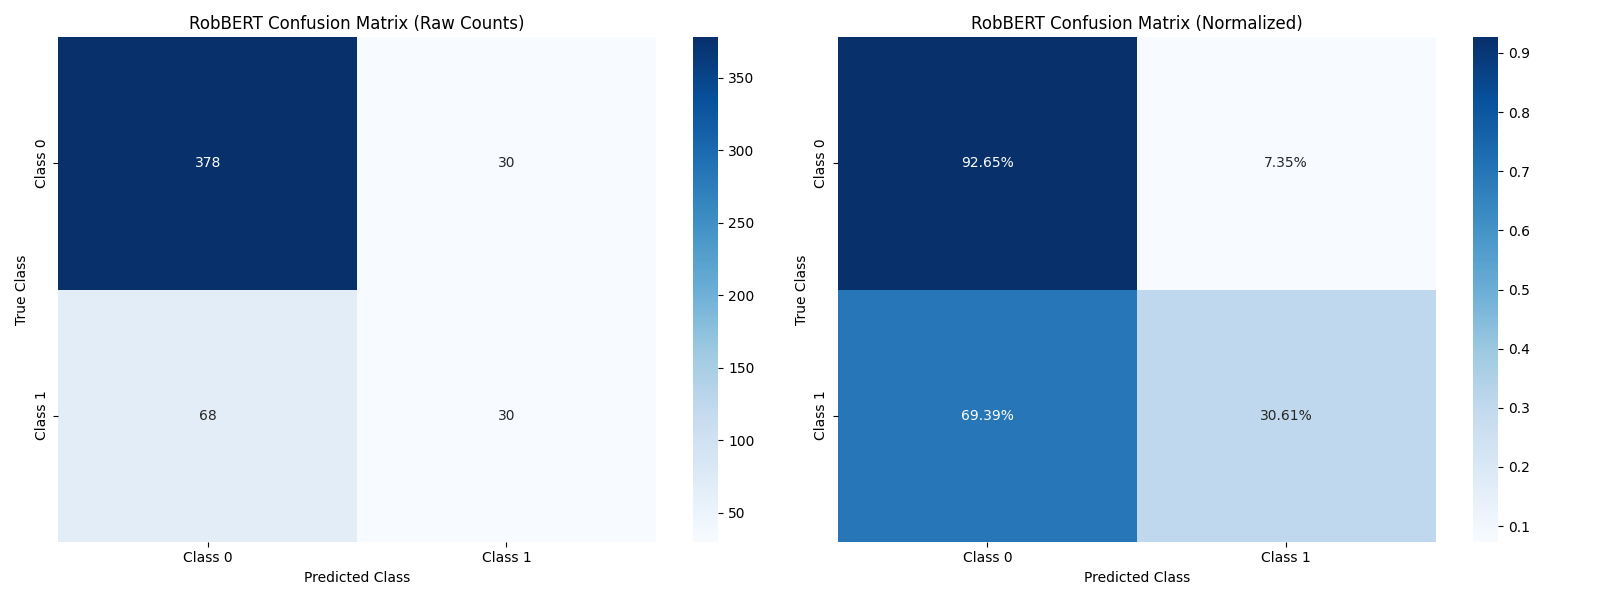
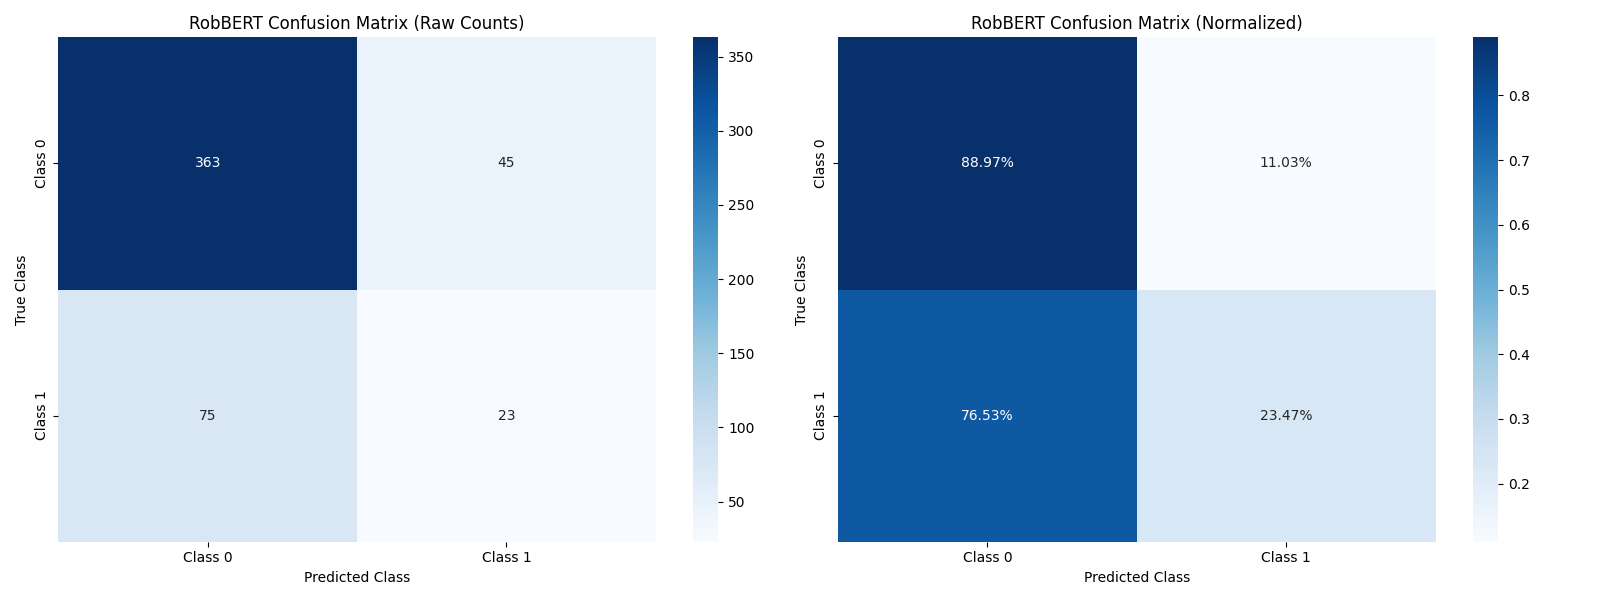
Retrained models and made path changes to src files

diff --git a/Application.py b/Application.py
@@ -459,19 +459,16 @@ def display_similar_cases(similar_cases: List[Dict]):
             st.markdown(f"```\n{case['text'][:500]}{'...' if len(case['text']) > 500 else ''}\n```")
 
 def create_triple_gauge_chart(model_prob: float, similar_prob: float, composite_prob: float, explanation: str) -> go.Figure:
-    """Create a figure with three gauge charts - composite on top, model and similarity below."""
+    """Create a figure with three gauge charts and explanation."""
     fig = go.Figure()
     
-    # Composite Confidence Gauge (larger, on top)
+    # Composite Confidence Gauge (top)
     fig.add_trace(go.Indicator(
         mode="gauge+number",
         value=composite_prob * 100,
-        domain={'x': [0.2, 0.8], 'y': [0.52, 0.95]},  # Adjusted y domain to prevent cutoff
-        title={
-            'text': "Composite Confidence",
-            'font': {'size': 18}
-        },
-        number={'font': {'size': 24}},
+        domain={'x': [0.25, 0.75], 'y': [0.5, 0.9]},
+        title={'text': "Composite Confidence", 'font': {'size': 16}},
+        number={'font': {'size': 20}},
         gauge={
             'axis': {'range': [0, 100]},
             'bar': {'color': "darkgreen"},
@@ -489,11 +486,12 @@ def create_triple_gauge_chart(model_prob: float, similar_prob: float, composite_
     ))
     
     # Model Confidence Gauge (bottom left)
+    model_title = f"Model Confidence<br><span style='font-size:11px'>{'(for Positive)' if model_prob >= 0.5 else '(for Negative)'}</span>"
     fig.add_trace(go.Indicator(
         mode="gauge+number",
         value=model_prob * 100,
         domain={'x': [0, 0.45], 'y': [0.1, 0.4]},
-        title={'text': "Model Confidence", 'font': {'size': 14}},
+        title={'text': model_title, 'font': {'size': 14}},
         number={'font': {'size': 16}},
         gauge={
             'axis': {'range': [0, 100]},
@@ -512,11 +510,12 @@ def create_triple_gauge_chart(model_prob: float, similar_prob: float, composite_
     ))
     
     # Similarity Confidence Gauge (bottom right)
+    similar_title = f"Similarity Confidence<br><span style='font-size:11px'>{'(for Positive)'}</span>"
     fig.add_trace(go.Indicator(
         mode="gauge+number",
         value=similar_prob * 100,
         domain={'x': [0.55, 1], 'y': [0.1, 0.4]},
-        title={'text': "Similarity Confidence", 'font': {'size': 14}},
+        title={'text': similar_title, 'font': {'size': 14}},
         number={'font': {'size': 16}},
         gauge={
             'axis': {'range': [0, 100]},
@@ -536,11 +535,11 @@ def create_triple_gauge_chart(model_prob: float, similar_prob: float, composite_
     
     fig.update_layout(
         height=500,
-        margin=dict(t=70, b=150),  # Increased bottom margin
+        margin=dict(t=70, b=150),
         annotations=[
             dict(
                 x=0.5,
-                y=-0.15,  # Moved text further down
+                y=-0.15,
                 showarrow=False,
                 text=explanation,
                 xref="paper",
@@ -560,16 +559,18 @@ def calculate_composite_confidence(prediction: int, model_probability: float, si
     """Calculate all confidence scores and return model, similarity, composite confidences, explanation and final prediction."""
     if not similar_cases:
         composite_conf = model_probability
-        # Only return the model's prediction if confidence > 0.5
-        final_pred = prediction if composite_conf > 0.5 else None
-        return model_probability, 0.0, composite_conf, "Based on model prediction only", final_pred
+        # Flip prediction and confidence if below 50%
+        if composite_conf < 0.5:
+            return model_probability, 0.0, 1 - composite_conf, "Based on model prediction only", 1 - prediction
+        return model_probability, 0.0, composite_conf, "Based on model prediction only", prediction
         
     # Calculate similarity-weighted vote from similar cases
     total_similarity = sum(case['similarity'] for case in similar_cases)
     if total_similarity == 0:
         composite_conf = model_probability
-        final_pred = prediction if composite_conf > 0.5 else None
-        return model_probability, 0.0, composite_conf, "Based on model prediction only", final_pred
+        if composite_conf < 0.5:
+            return model_probability, 0.0, 1 - composite_conf, "Based on model prediction only", 1 - prediction
+        return model_probability, 0.0, composite_conf, "Based on model prediction only", prediction
         
     similar_vote = sum(
         case['similarity'] * (1 if case['label'] == prediction else 0)
@@ -585,13 +586,19 @@ def calculate_composite_confidence(prediction: int, model_probability: float, si
     
     # Generate explanation
     agreement = sum(1 for case in similar_cases if case['label'] == prediction)
+    
+    # Flip prediction and confidence if below 50%
+    if composite_conf < 0.5:
+        flipped_prediction = 1 - prediction
+        flipped_conf = 1 - composite_conf
+        explanation = f"Based on model prediction ({model_probability:.1%}, weight: {model_weight:.1%}) and "
+        explanation += f"{agreement}/{len(similar_cases)} similar cases. Prediction flipped due to stronger confidence ({flipped_conf:.1%}) in opposite outcome"
+        return model_probability, similar_vote, flipped_conf, explanation, flipped_prediction
+    
     explanation = f"Based on model prediction ({model_probability:.1%}, weight: {model_weight:.1%}) and "
     explanation += f"{agreement}/{len(similar_cases)} similar cases agreeing (weight: {similar_weight:.1%})"
     
-    # Only return a prediction if composite confidence is high enough
-    final_pred = prediction if composite_conf > 0.5 else None
-    
-    return model_probability, similar_vote, composite_conf, explanation, final_pred
+    return model_probability, similar_vote, composite_conf, explanation, prediction
 
 def main():
     st.set_page_config(
@@ -669,12 +676,20 @@ def main():
                             
                             with col1:
                                 st.subheader("Classification Results")
-                                if final_prediction is not None:
-                                    prediction_label = "Positive (Likely to Appeal)" if final_prediction == 1 else "Negative (Unlikely to Appeal)"
-                                    confidence_color = "red" if final_prediction == 1 else "green"
-                                    st.markdown(f"**Prediction:** <span style='color:{confidence_color}'>{prediction_label}</span>", unsafe_allow_html=True)
-                                else:
-                                    st.markdown("**Prediction:** <span style='color:orange'>Insufficient confidence to make a prediction</span>", unsafe_allow_html=True)
+                                prediction_label = "Positive (Likely to Appeal)" if final_prediction == 1 else "Negative (Unlikely to Appeal)"
+                                confidence_color = "red" if final_prediction == 1 else "green"
+                                
+                                # Add colored box around prediction
+                                st.markdown(f"""
+                                    <div style='
+                                        padding: 10px; 
+                                        border-radius: 5px; 
+                                        margin-bottom: 10px;
+                                        background-color: {"rgba(255,0,0,0.1)" if final_prediction == 1 else "rgba(0,255,0,0.1)"};
+                                        border: 1px solid {confidence_color}'>
+                                        <strong>Prediction:</strong> <span style='color:{confidence_color}'>{prediction_label}</span>
+                                    </div>
+                                """, unsafe_allow_html=True)
                                 
                                 # Create and display triple gauge chart
                                 fig = create_triple_gauge_chart(

diff --git a/src/eval_robbert.py b/src/eval_robbert.py
@@ -67,8 +67,8 @@ def compute_metrics(pred):
 
 def main():
     # Load the saved model and tokenizer
-    model_path = "./robbert_model"
-    tokenizer_path = "./robbert_tokenizer"
+    model_path = "../models/robbert_model"
+    tokenizer_path = "../models/robbert_tokenizer"
     
     logging.info("Loading model and tokenizer...")
     model = RobertaForSequenceClassification.from_pretrained(model_path)
@@ -76,7 +76,7 @@ def main():
     
     # Load and preprocess test data
     logging.info("Loading and preprocessing test data...")
-    df = pd.read_csv('merged_data.csv', index_col=0)
+    df = pd.read_csv('../data/merged_data.csv', index_col=0)
     df['text'] = df['geanonimiseerd_doc_inhoud'].apply(clean_dutch_text)
     
     # Split data
@@ -84,7 +84,7 @@ def main():
         df, 
         test_size=0.2, 
         stratify=df['target'], 
-        random_state=42
+        random_state=55
     )
     
     # Prepare test dataset
@@ -163,7 +163,7 @@ def main():
     ax2.set_title('RobBERT Confusion Matrix (Normalized)')
     
     plt.tight_layout()
-    plt.savefig('robbert_confusion_matrix.png')
+    plt.savefig('../eval_results/robbert_confusion_matrix.png')
     plt.close()
     
     # Generate ROC curve
@@ -180,7 +180,7 @@ def main():
     plt.ylabel('True Positive Rate')
     plt.title('RobBERT ROC Curve')
     plt.legend(loc="lower right")
-    plt.savefig('robbert_roc_curve.png')
+    plt.savefig('../eval_results/robbert_roc_curve.png')
     plt.close()
     
     # Save detailed metrics to file
@@ -195,7 +195,7 @@ def main():
             results.metrics['test_avg_confidence']
         ]
     })
-    metrics_df.to_csv('robbert_evaluation_metrics.csv', index=False)
+    metrics_df.to_csv('../eval_results/robbert_evaluation_metrics.csv', index=False)
     logging.info("\nEvaluation completed. Results saved to files.")
 
 if __name__ == "__main__":

diff --git a/src/train_robbert.py b/src/train_robbert.py
@@ -90,11 +90,11 @@ def clean_dutch_text(text):
 
 def main():
     # Load data
-    df = pd.read_csv('merged_data.csv', index_col=0)
+    df = pd.read_csv('../data/merged_data.csv', index_col=0)
     df['cleaned_text'] = df['geanonimiseerd_doc_inhoud'].apply(clean_dutch_text)
     
     # Create train/test split
-    train_df, test_df = train_test_split(df, test_size=0.2, random_state=42, stratify=df['target'])
+    train_df, test_df = train_test_split(df, test_size=0.2, random_state=55, stratify=df['target'])
     
     # Prepare datasets with proper column names
     train_df = train_df.rename(columns={'cleaned_text': 'text', 'target': 'labels'})
@@ -182,8 +182,8 @@ def main():
     print("\nEvaluation Results:", eval_results)
     
     # Save model and tokenizer
-    model.save_pretrained("./robbert_model")
-    tokenizer.save_pretrained("./robbert_tokenizer")
+    model.save_pretrained("../models/robbert_model")
+    tokenizer.save_pretrained("../models/robbert_tokenizer")
     print("\nModel and tokenizer saved successfully!")
 
 if __name__ == "__main__":

diff --git a/src/evaluate_weights.py b/src/evaluate_weights.py
@@ -10,8 +10,8 @@ from tqdm import tqdm
 
 def load_data():
     """Load the training data and embeddings"""
-    training_embeddings = joblib.load('training_embeddings.joblib')
-    training_texts = joblib.load('training_texts.joblib')
+    training_embeddings = joblib.load('../models/training_embeddings.joblib')
+    training_texts = joblib.load('../models/training_texts.joblib')
     return training_embeddings, training_texts
 
 def find_similar_cases(
@@ -121,7 +121,7 @@ def plot_results(results: pd.DataFrame):
     plt.title('Performance vs Model Weight')
     plt.legend()
     plt.grid(True)
-    plt.savefig('weight_evaluation.png')
+    plt.savefig('../eval_results/weight_evaluation.png')
     plt.close()
 
 def main():
